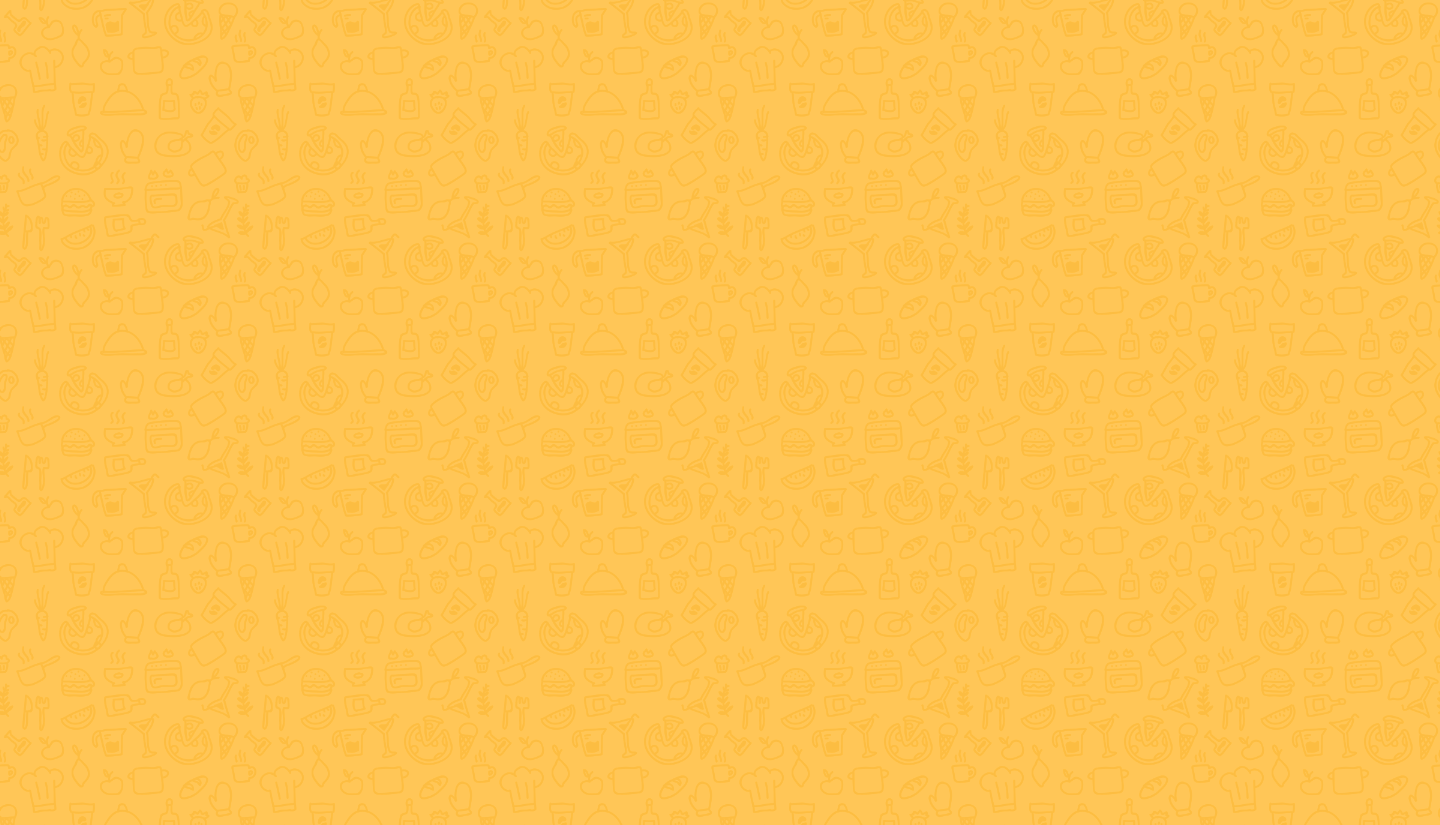
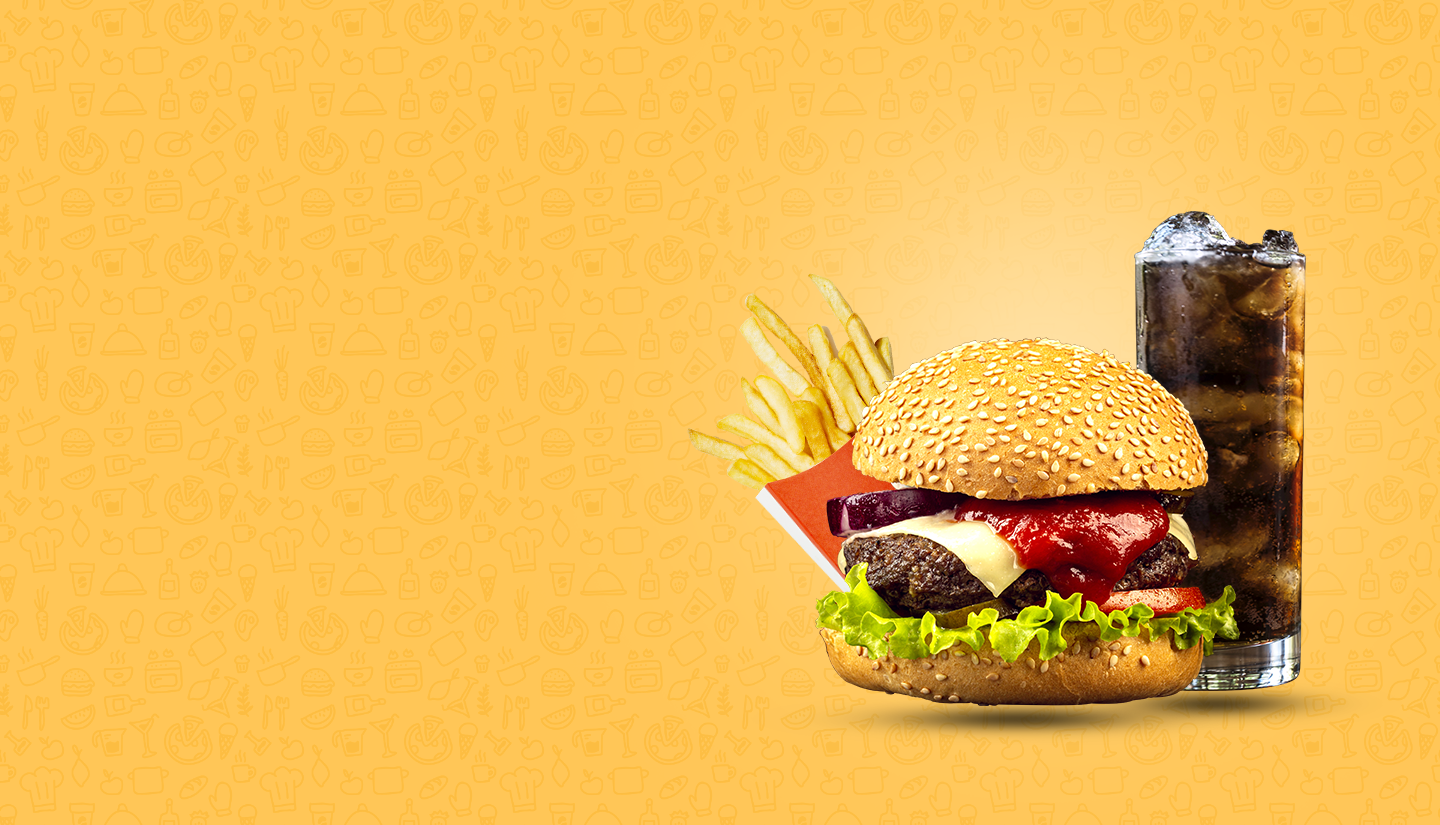
add container slide

Changed region(s): [[0.4688, 0.1212, 0.9375, 0.9091]]

diff --git a/index.html b/index.html
@@ -108,28 +108,61 @@
             <button><a href="#">PEDIR AGORA</a></button>
           </div>
         </section>
+
         <section class="containerSlide">
-          <div class="textSlide">
-            <h3>
-              Descobrir <br />
-              Próximos eventos
-            </h3>
-            <p>
-              Lorem, ipsum dolor sit amet consectetur adipisicing elit.
-              Accusantium quam ipsum ut vitae tempora, obcaecati aliquid minima
-              amet. Dolores debitis molestias incidunt enim officiis cum cumque
-              aspernatur harum dolorum ipsa.
-            </p>
+          <div class="shadow">
+            <div class="textSlide">
+              <h3>Descobrir</h3>
+              <h2>PRÓXIMOS EVENTOS</h2>
+              <p>
+                Lorem, ipsum dolor sit amet consectetur adipisicing elit.
+                Accusantium quam ipsum ut vitae tempora, obcaecati aliquid
+                minima amet. Dolores debitis molestias incidunt enim officiis
+                cum cumque aspernatur harum dolorum ipsa. Lorem ipsum dolor sit,
+                amet consectetur adipisicing elit. Laboriosam pariatur natus
+                soluta ad autem dolorum reprehenderit laborum officiis dolor
+                quas nemo voluptatibus error praesentium possimus debitis odio
+                id, sit magnam!
+              </p>
+            </div>
+            <div class="imgSlide">
+              <a href="#"><img src="./img/discove.png" alt="" /></a>
+            </div>
           </div>
-          <div class="imgSlide">
-            <a href="#"><img src="./img/discove.png" alt="" /></a>
+        </section>
+
+        <section>
+          <div class="bgform"></div>
+          <div class="form">
+            <h3>RESERVAR</h3>
+            <h2>RESERVE SUA MESA</h2>
+            <!-- FOMULARIO -->
           </div>
         </section>
       </article>
     </main>
-    <!--  -->
     <footer>
-      <!-- footer -->
+      <div class="bgfooter">
+        <div class="logoFooter">
+          <a href="#"><img src="./img/logo.png" alt="" /></a>
+          <p>
+            Lorem ipsum dolor sit amet consectetur adipisicing elit. Minus
+            dolorum necessitatibus ipsa nihil, aliquid quaerat sint omnis dicta
+            possimus dignissimos magni corporis doloremque optio eum, officia
+            voluptatum amet officiis vitae?
+          </p>
+          <p>
+            ©
+            <a href="#" target="_blank">Jefferson Pereira</a>
+            2024. Todos os direitos reservados.
+          </p>
+        </div>
+      </div>
+      <div class="emailRede">
+        <h3>Cariús-Ce</h3>
+        <h3>jefferson.ps@hotmail.com.br</h3>
+        <!-- redes -->
+      </div>
     </footer>
     <script src="js/JavaScript.js" defer></script>
   </body>

diff --git a/css/main.css b/css/main.css
@@ -75,3 +75,32 @@
     }
   }
 }
+.containerSlide {
+  padding: 8rem;
+}
+.shadow {
+  padding: 3rem;
+  display: flex;
+  box-shadow: 10px 10px 15px rgba(0, 0, 0, 0.3);
+}
+.textSlide {
+  padding: 3rem;
+  max-width: 50rem;
+  & h3 {
+    font-size: 3.2rem;
+    font-family: "Bebas Neue", serif;
+  }
+  & h2 {
+    color: #3d2514;
+    font-size: 3.4rem;
+    font-family: "Alfa Slab One", serif;
+  }
+  & p {
+    margin-top: 5rem;
+    font-family: "Montserrat", serif;
+  }
+}
+.imgSlide img {
+  width: 70rem;
+  height: 50rem;
+}
